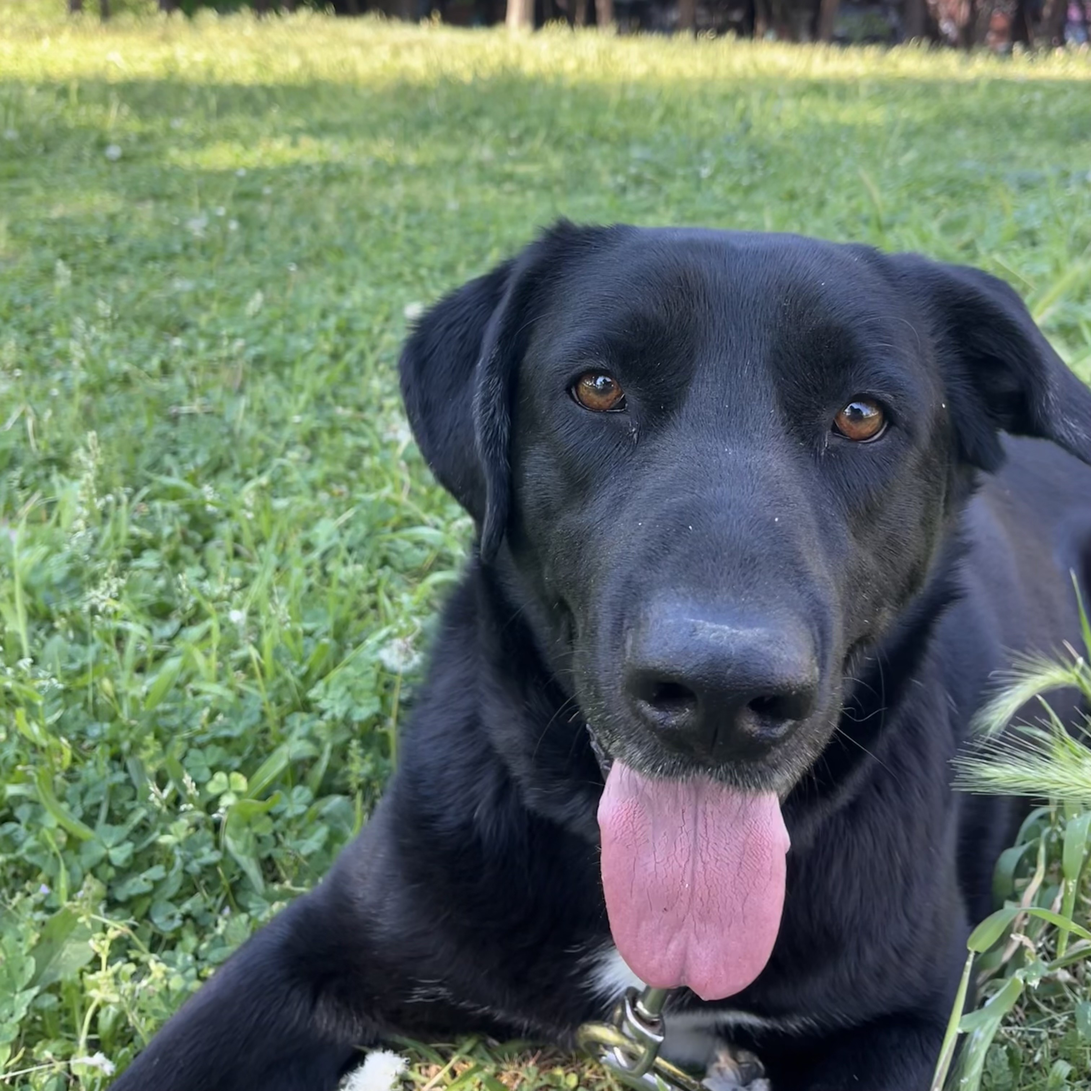
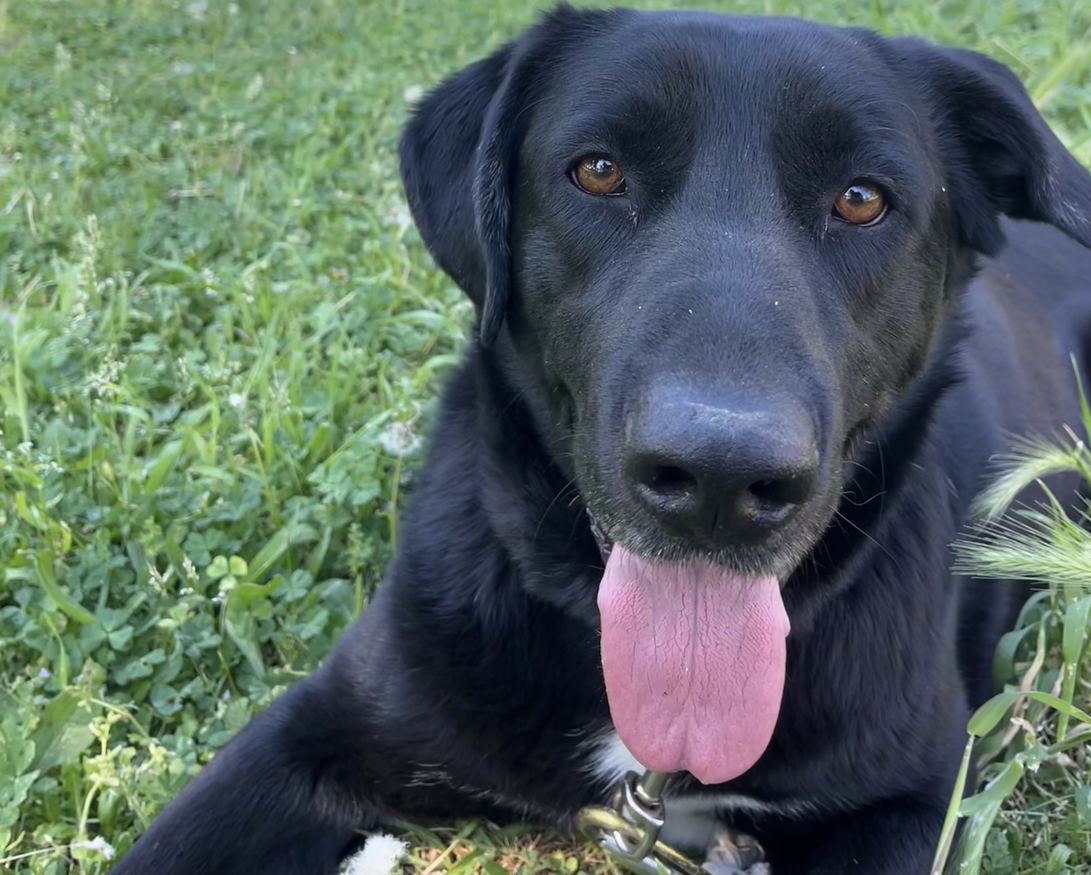
ui/ux fixes + code cleanup

diff --git a/components/dog/dog.tsx b/components/dog/dog.tsx
@@ -1,4 +1,4 @@
-import Image from "next/image";
+import DogImage from "./dog-image";
 
 export default function Dog() {
   return (
@@ -7,15 +7,8 @@ export default function Dog() {
       <div className="pt-[1rem] text-[#555555] block items-start  relative overflow-hidden group transition-all duration-500 ease-out">
         Here&apos;s a photo of my dog. His name is Oscar. I love my dog.
         <div className="py-[1rem] pointer-events-none select-none overflow-hidden">
-          <div className="w-full h-auto relative border-1 border-[#555555] rounded-[0.5rem] overflow-hidden">
-            <Image
-              src="/oscar.jpg"
-              alt="Oscar"
-              width={4032}
-              height={3024}
-              className="w-full select-none pointer-events-none"
-              priority
-            />
+          <div className="w-full aspect-square md:aspect-[5/4] relative border-1 border-[#555555] rounded-[0.5rem] overflow-hidden object-fill">
+            <DogImage />
           </div>
         </div>
       </div>

diff --git a/components/highlight/highlight.tsx b/components/highlight/highlight.tsx
@@ -17,7 +17,7 @@ export default function Highlight() {
         </a>
       </div>
       <div className="py-[1rem] pointer-events-none select-none ">
-        <div className="w-full md:h-[50vh] h-[24rem] relative border-1 border-[#555555] rounded-[0.5rem]">
+        <div className="w-full aspect-square md:aspect-[5/4] relative border-1 border-[#555555] rounded-[0.5rem]">
           <UnicornScene projectId="D44WtJNcYUNnkQfCweSm" />
           <div className="absolute inset-0 flex flex-col items-start p-4">
             <TheWebConfLogo className="w-12 h-12" />
@@ -34,7 +34,6 @@ export default function Highlight() {
               <span className="font-paraDis">d</span>ay.
             </h1>
           </div> */}
-
           {/* Version 2 - Centered text */}
           <div className="absolute inset-0 flex flex-col items-center self-center justify-center">
             <span className="font-writerReg text-[#0022FF] text-base md:text-lg">

diff --git a/components/title-card.tsx b/components/title-card.tsx
@@ -1,0 +1,24 @@
+export type TitleCardProps = {
+  title?: string;
+  description?: string;
+  date?: string;
+};
+
+export default function TitleCard({
+  title,
+  description,
+  date,
+}: TitleCardProps) {
+  return (
+    <div className="bg-background rounded-lg shadow-md">
+      <div className="pt-[1rem] flex flex-col justify-between border-b border-[#666666] hover:border-foreground relative overflow-hidden group transition-all duration-500 ease-out">
+        <div className="flex flex-row justify-between">
+          <div>{title}</div>
+          <div className="text-[#555555]">{date}</div>
+        </div>
+        <p className="text-[#555555] truncate">{description}</p>
+        <div className="absolute bottom-0 left-0 h-[1px] bg-foreground w-0 group-hover:w-full transition-all duration-500 ease-in-out" />
+      </div>
+    </div>
+  );
+}

diff --git a/components/awards/awards.tsx b/components/awards/awards.tsx
@@ -1,0 +1,33 @@
+"use client";
+
+import TitleCard from "../title-card";
+
+const awards = [
+  {
+    title: "Netcompany Hackathon",
+    description: "1st place | AI Travel Agent",
+    date: "Feb. 21 2025",
+  },
+  {
+    title: "Open Jar Jam",
+    description: "3rd place | Game Jam: New Take on an Old Game",
+    date: "May 14 2025",
+  },
+];
+
+export default function Awards() {
+  return (
+    <div className="pt-[4rem]">
+      <div className="pb-[1rem]">Awards & Honors</div>
+      {awards.map((item, index) => (
+        <div key={index}>
+          <TitleCard
+            title={item.title}
+            description={item.description}
+            date={item.date}
+          />
+        </div>
+      ))}
+    </div>
+  );
+}

diff --git a/app/page.tsx b/app/page.tsx
@@ -1,9 +1,9 @@
-import Awards from "@/components/awards";
-import Experience from "@/components/experience";
-import Highlight from "@/components/highlight/highlight";
-import Footer from "@/components/footer/footer";
-import Hero from "@/components/hero";
+import Awards from "@/components/awards/awards";
 import Dog from "@/components/dog/dog";
+import Experience from "@/components/experience/experience";
+import Footer from "@/components/footer/footer";
+import Hero from "@/components/hero/hero";
+import Highlight from "@/components/highlight/highlight";
 
 export default function Home() {
   return (

diff --git a/components/hero/hero.tsx b/components/hero/hero.tsx
@@ -14,7 +14,7 @@ export default function Hero() {
 
       <div className=" pt-[4rem]">
         <a className="text-foreground">Apostolos (Q) Karamanis</a>{" "}
-        <a className="">is a web designer from Thessaloniki, Greece.</a>
+        <a className="">is a web developer from Thessaloniki, Greece.</a>
       </div>
       <div className="pt-[1rem]">
         Looking for new opportunities. I also have a dog.

diff --git a/components/dog/dog-image.tsx b/components/dog/dog-image.tsx
@@ -1,0 +1,13 @@
+import Image from "next/image";
+
+export default function DogImage() {
+  return (
+    <Image
+      src="/oscar.jpg"
+      alt="Oscar"
+      fill
+      className="object-cover object-bottom select-none pointer-events-none"
+      priority
+    />
+  );
+}
